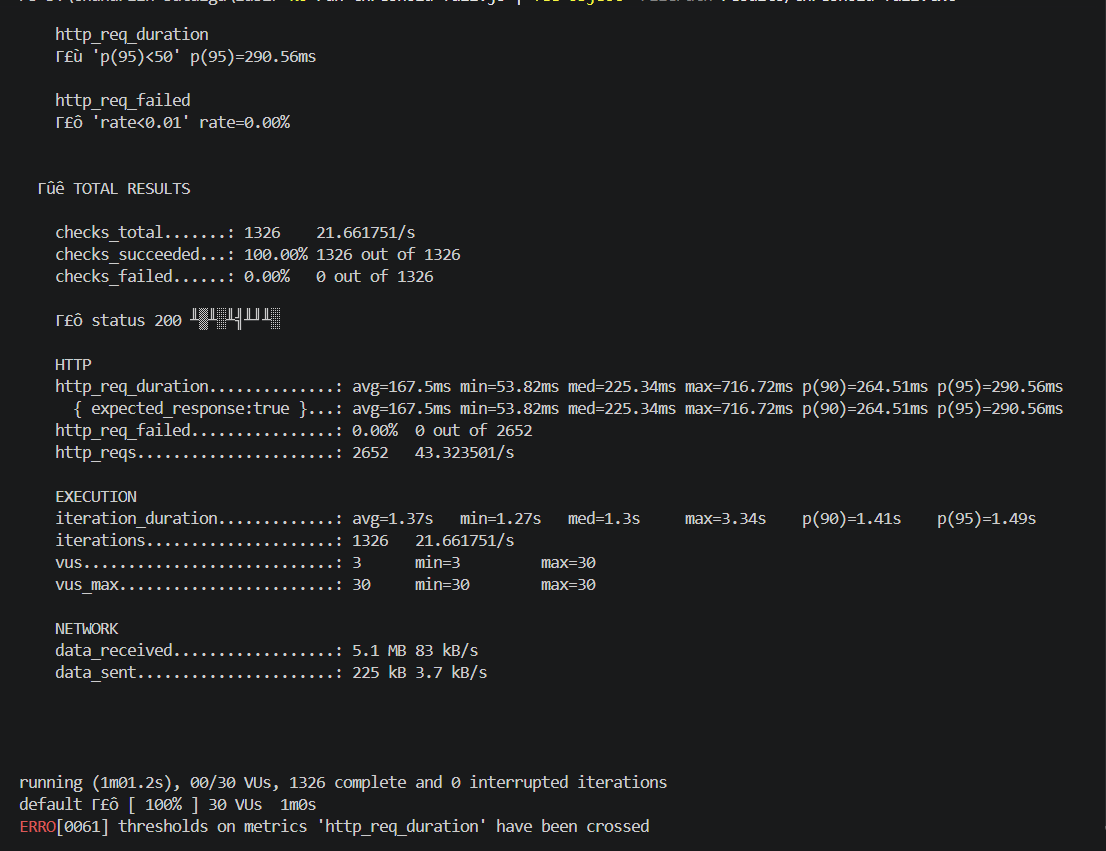
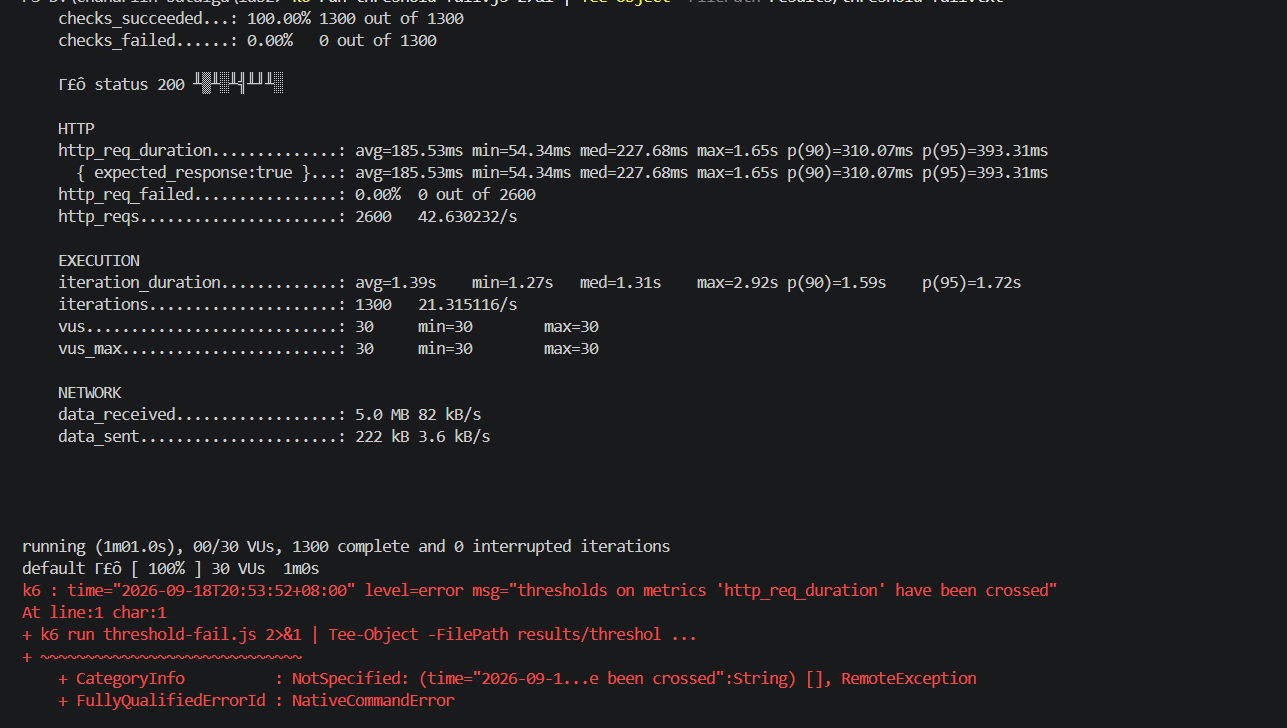
Capture complete threshold outputs

diff --git a/README.md b/README.md
@@ -65,13 +65,13 @@ Baseline p95 нь 299.94 ms байсан тул 1.5 дахин нөөц тооц
 
 ## PASS result
 
-`threshold-pass.js` тестийг 30 VU, 1 минут ажиллуулахад `p(95)<449.91` болон `rate<0.01` threshold хоёулаа PASS болсон. Бодит p95 нь 276.97 ms, error rate нь 0.00% (0 / 2,722) байв.
+`threshold-pass.js` тестийг 30 VU, 1 минут ажиллуулахад `p(95)<449.91` болон `rate<0.01` threshold хоёулаа PASS болсон. Бодит p95 нь 324.22 ms, error rate нь 0.00% (0 / 2,624) байв.
 
 Бүтэн PASS гаралт: [`results/threshold-pass.txt`](results/threshold-pass.txt).
 
 ## FAIL result
 
-`threshold-fail.js` тестийг 30 VU, 1 минут ажиллуулахад зориудаар хатууруулсан `p(95)<50` threshold FAIL болсон. Бодит p95 нь 290.56 ms тул 50 ms босгыг хангаагүй, харин error-rate threshold нь 0.00% (0 / 2,652)-оор PASS болсон.
+`threshold-fail.js` тестийг 30 VU, 1 минут ажиллуулахад зориудаар хатууруулсан `p(95)<50` threshold FAIL болсон. Бодит p95 нь 393.31 ms тул 50 ms босгыг хангаагүй, харин error-rate threshold нь 0.00% (0 / 2,600)-оор PASS болсон.
 
 Бүтэн FAIL гаралт: [`results/threshold-fail.txt`](results/threshold-fail.txt).
 
@@ -93,5 +93,5 @@ Baseline p95 нь 299.94 ms байсан тул 1.5 дахин нөөц тооц
 5. Throughput нь 5 VU-ийн 7.370686 request/s-ээс 30 VU-д 43.068321 request/s, 100 VU-д 129.03345 request/s болж өссөн.
 6. Гурван тогтмол VU тестэд error rate 0.00% хэвээр байсан тул энэ ачааллын хүрээнд HTTP хүсэлтүүд амжилттай хариулав.
 7. Stages test-д p95 350.01 ms, error rate 0.00%, хамгийн их ачаалал 100 VU байсан нь шаталсан ачаалалд ч алдаа гараагүйг харуулсан.
-8. Baseline p95 299.94 ms-д үндэслэн сонгосон 449.91 ms SLO-г 30 VU-ийн PASS test-ийн 276.97 ms p95 хангасан.
-9. Харин 50 ms-ийн зориудаар хатуу FAIL threshold нь бодит 290.56 ms p95-д хангагдаагүй бөгөөд latency SLO-оос давбал хэрэглэгчийн хариу хүлээх хугацаа муудна гэдгийг баталсан.
+8. Baseline p95 299.94 ms-д үндэслэн сонгосон 449.91 ms SLO-г 30 VU-ийн PASS test-ийн 324.22 ms p95 хангасан.
+9. Харин 50 ms-ийн зориудаар хатуу FAIL threshold нь бодит 393.31 ms p95-д хангагдаагүй бөгөөд latency SLO-оос давбал хэрэглэгчийн хариу хүлээх хугацаа муудна гэдгийг баталсан.
